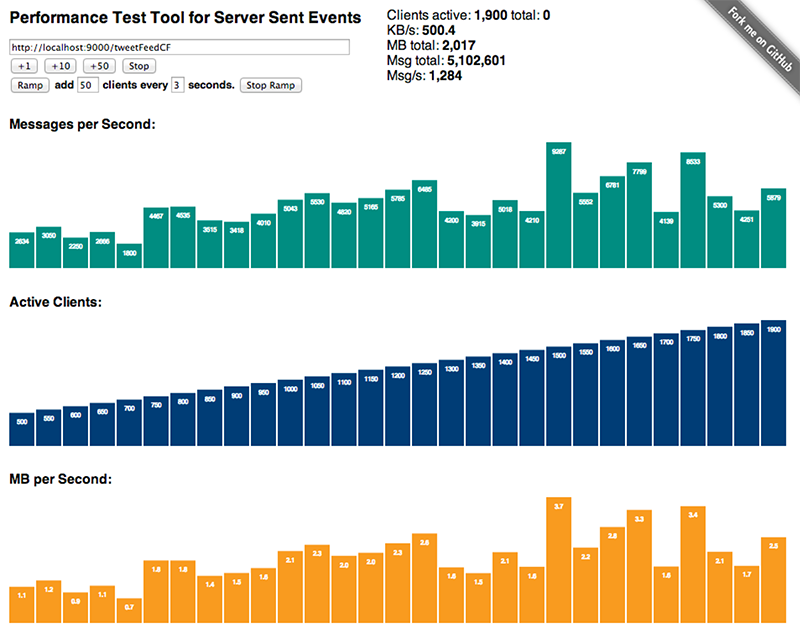
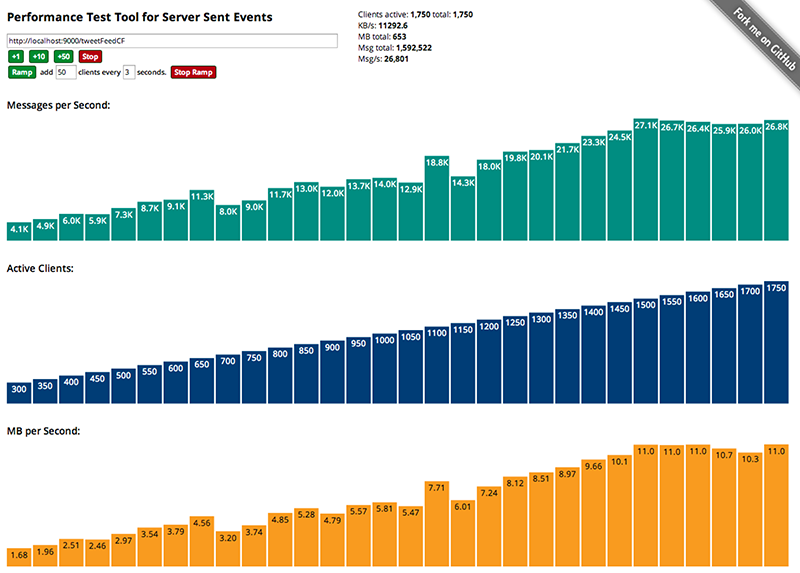
authentication and logging to mongodb added; styling; documentation

diff --git a/public/javascripts/main.js b/public/javascripts/main.js
@@ -23,26 +23,25 @@ $(function () {
     }
 
     function addMetric(item) {
-        if (item.activeClients !== 0) {
-            itemsReceived += 1;
-            item.index = itemsReceived;
-            item.chunksTotal = +item.chunksTotal;
-            item.chunks = +item.chunks;
-            item.msSinceLastReset = +item.msSinceLastReset;
-            item.bytesReceivedTotal = +item.bytesReceivedTotal;
-            item.bytesReceived = +item.bytesReceived;
-            item.activeClients = +item.activeClients;
-            item.clients = +item.clients;
-
-            item.kbSec = (item.bytesReceived / 1024 / item.msSinceLastReset * 1000).toFixed(1);
-            item.msgSec = item.chunks / item.msSinceLastReset * 1000;
-            ssePerf.metrics.push(item);
-            if (ssePerf.metrics.length > 30) { ssePerf.metrics.shift(); }
-            me.clientsChart.reDraw();
-            me.msgChart.reDraw();
-            me.mbSecChart.reDraw();
-            updateUI(item);
+        itemsReceived += 1;
+        item.index = itemsReceived;
+        item.chunksTotal = +item.chunksTotal;
+        item.chunks = +item.chunks;
+        item.msSinceLastReset = +item.msSinceLastReset;
+        item.bytesReceivedTotal = +item.bytesReceivedTotal;
+        item.bytesReceived = +item.bytesReceived;
+        item.activeClients = +item.activeClients;
+        item.clients = +item.clients;
+        item.kbSec = (item.bytesReceived / 1024 / item.msSinceLastReset * 1000).toFixed(1);
+        item.msgSec = item.chunks / item.msSinceLastReset * 1000;
+        ssePerf.metrics.push(item);
+        if (ssePerf.metrics.length > 30) {
+            ssePerf.metrics.shift();
         }
+        me.clientsChart.reDraw();
+        me.msgChart.reDraw();
+        me.mbSecChart.reDraw();
+        updateUI(item);
     }
 
     function handler(msg) {
@@ -52,15 +51,23 @@ $(function () {
     feed.addEventListener('message', handler, false);
 
     function addClients(n) {
-        $.get("/clients/add?n=" + n + "&url=" + $("#urlField").val(), function (response) {
-            console.log(response);
-        });
+        $.get("/clients/add?n=" + n + "&url=" + $("#urlField").val() + "&token=" + ssePerf.token)
+            .done(function (response) {
+                console.log(response);
+            })
+            .fail(function () {
+                $("#urlField").val("SORRY, YOU'RE NOT AUTHORIZED.").prop('disabled', true);
+            });
     }
 
     function removeAll() {
-        $.get("/clients/removeAll", function (response) {
-            console.log(response);
-        });
+        $.get("/clients/removeAll" + "?token=" + ssePerf.token)
+            .done(function (response) {            
+                console.log(response);        
+            })
+            .fail(function () {
+                $("#urlField").val("SORRY, YOU'RE NOT AUTHORIZED.").prop('disabled', true);
+            });
         setTimeout(function () {
             ssePerf.metrics = [];
             itemsReceived = 0;
@@ -83,15 +90,26 @@ $(function () {
 
     /** Chart for showing concurrent clients: value and label are identical */
     function clientsValue(d) { return d.activeClients; }
-    me.clientsChart = ssePerf.BarChart(clientsValue, clientsValue, "#clientsChartSvg", "rgb(2, 62, 115)", 960, 150);
+    me.clientsChart = ssePerf.BarChart(clientsValue, clientsValue, "#clientsChartSvg", "rgb(2, 62, 115)", "white", "black", 960, 140);
 
     /** Chart for showing cumulative Msg / sec: value and label are different */
     function msgValue(d) { return d.msgSec; }
-    function msgLabel(d) { return d.msgSec.toFixed(0); }
-    me.msgChart = ssePerf.BarChart(msgValue, msgLabel, "#msgChartSvg", "rgb(3, 140, 127)", 960, 150);
+    function msgLabel(d) {
+        var label;
+        if (d.msgSec > 1000.0) { label = (d.msgSec / 1000).toFixed(1) + "K"; }
+        else { label = d.msgSec.toFixed(0); }
+        return label
+    }
+    me.msgChart = ssePerf.BarChart(msgValue, msgLabel, "#msgChartSvg", "rgb(3, 140, 127)", "white", "black", 960, 140);
 
     /** Chart for showing cumulative MB / sec: value and label are different */
     function mbSecValue(d) { return d.kbSec / 1024; }
-    function mbSecLabel(d) { return (d.kbSec / 1024).toFixed(1); }
-    me.mbSecChart = ssePerf.BarChart(mbSecValue, mbSecLabel, "#mbSecChartSvg", "rgb(242, 154, 46)", 960, 150);
+    function mbSecLabel(d) { 
+        var label;
+        if (d.kbSec < 1000.0) { label = (d.kbSec / 1024).toFixed(3); }
+        else if (d.kbSec < 10000.0) { label = (d.kbSec / 1024).toFixed(2); }
+        else { label = (d.kbSec / 1024).toFixed(1); }
+        return label 
+    }
+    me.mbSecChart = ssePerf.BarChart(mbSecValue, mbSecLabel, "#mbSecChartSvg", "rgb(242, 154, 46)", "black", "black", 960, 140);
 });

diff --git a/app/views/index.scala.html b/app/views/index.scala.html
@@ -1,19 +1,19 @@
-@(message: String)
+@(token: String)
 
 @main("Performance Test Tool for Server Sent Events") {
 
     <h1>Performance Test Tool for Server Sent Events</h1>
     
     <div>
-        <input id="urlField" value="http://localhost:9000/tweetFeedCF" width="300" /><br />
-        <button id="addOneButton">+1</button>
-        <button id="addTenButton">+10</button>
-        <button id="addFiftyButton">+50</button>
-        <button id="removeAllButton">Stop</button><br />
-        <button id="rampButton">Ramp</button>
+        <input id="urlField" value="http://birdwatch.matthiasnehlsen.com/tweetFeedCF" width="300" /><br />
+        <button class="startButtons" id="addOneButton">+1</button>
+        <button class="startButtons" id="addTenButton">+10</button>
+        <button class="startButtons" id="addFiftyButton">+50</button>
+        <button class="stopButtons" id="removeAllButton">Stop</button><br />
+        <button class="startButtons" id="rampButton">Ramp</button>
         <span class="ramp">add</span> <input id="rampCount" value="50"/><span class="ramp"> clients every </span> 
         <input id="rampInterval" value="3"/><span class="ramp"> seconds.</span>
-        <button id="stopRampButton">Stop Ramp</button>
+        <button class="stopButtons" id="stopRampButton">Stop Ramp</button>
 
 
     </div>
@@ -43,8 +43,36 @@
         <div id="mbSecChartSvg"></div>
     </div>
 
+    <div id="description">
+
+        <br />
+        
+        <h1>sse-perf</h1>
+
+        <p>This is a reactive web application for load testing Server Sent Event streams. It makes use of <a href="http://www.playframework.com">Play Framework 2.1</a> and <a href="http://d3js.org">D3.js</a> for visualizing performance metrics of a number of concurrent connections.</p>
+        
+        <p>Check out <a href="http://matthiasnehlsen.com">my Blog</a> or the <a href="https://github.com/matthiasn/sse-perf">GitHub project</a> for more information on how this is implemented. A blog article about this will be available soon.</p>
+
+        <p>You need a modern browser to view this page, otherwise the content will not be dynamic.</p>
+
+        <a href="https://twitter.com/share" class="twitter-share-button">Tweet</a>
+        <script>!function(d,s,id){var js,fjs=d.getElementsByTagName(s)[0],p=/^http:/.test(d.location)?'http':'https';if(!d.getElementById(id)){js=d.createElement(s);js.id=id;js.src=p+'://platform.twitter.com/widgets.js';fjs.parentNode.insertBefore(js,fjs);}}(document, 'script', 'twitter-wjs');</script>
+
+        <a href="https://twitter.com/_MNehlsen" class="twitter-follow-button" data-show-count="false">Follow &#64;_MNehlsen</a>
+        <script>!function(d,s,id){var js,fjs=d.getElementsByTagName(s)[0],p=/^http:/.test(d.location)?'http':'https';if(!d.getElementById(id)){js=d.createElement(s);js.id=id;js.src=p+'://platform.twitter.com/widgets.js';fjs.parentNode.insertBefore(js,fjs);}}(document, 'script', 'twitter-wjs');</script>
+
+        <p><br/>&#64; Matthias Nehlsen 2013</p>
+
+    </div>
+    
+    
     <script src="@routes.Assets.at("javascripts/barchart.js")" type="text/javascript"></script>
     <script src="@routes.Assets.at("javascripts/main.js")" type="text/javascript"></script>
+
+    <script>
+        ssePerf = ssePerf || {};
+        ssePerf.token = "@{token}";
+    </script>
 
     <a href="https://github.com/matthiasn"><img style="position: absolute; top: 0; right: 0; border: 0;" src="https://s3.amazonaws.com/github/ribbons/forkme_right_gray_6d6d6d.png" alt="Fork me on GitHub"></a>
 }

diff --git a/public/javascripts/barchart.js b/public/javascripts/barchart.js
@@ -2,20 +2,20 @@
 
 var ssePerf = ssePerf || {};
 
-ssePerf.BarChart = function (valueFunction, labelFunction, div, color, w, h) {
+ssePerf.BarChart = function (valueFunction, labelFunction, div, color, textColorInside, textColorOutside, w, h) {
     "use strict";
     var me = {},
         xScale = d3.scale.ordinal().domain(d3.range(ssePerf.metrics.length)).rangeRoundBands([0, w], 0.05),
         yScale = d3.scale.linear().domain([0, d3.max(ssePerf.metrics, valueFunction)]).range([0, h]),
         key = function (d) { return +d.index; },
         svg = d3.select(div).append("svg").attr("width", w).attr("height", h);
-
+    
     me.reDraw = function () {
         var bars = svg.selectAll("rect").data(ssePerf.metrics, key),
             labels = svg.selectAll("text").data(ssePerf.metrics, key);
 
         //Update scale domains
-        xScale.domain(d3.range(ssePerf.metrics.length));
+        xScale.domain(d3.range(ssePerf.metrics.length));    
         yScale.domain([0, d3.max(ssePerf.metrics, valueFunction)]);
 
         //Enter…
@@ -25,7 +25,8 @@ ssePerf.BarChart = function (valueFunction, labelFunction, div, color, w, h) {
             })
             .attr("width", 30)
             .attr("height", function (d) {
-                return yScale(valueFunction(d));
+                d.height = yScale(valueFunction(d));
+                return d.height;
             })
             .attr("fill", color);
 
@@ -36,6 +37,10 @@ ssePerf.BarChart = function (valueFunction, labelFunction, div, color, w, h) {
             })
             .attr("y", function (d) {
                 return h - yScale(valueFunction(d));
+            })
+            .attr("height", function (d) {
+                d.height = yScale(valueFunction(d));
+                return d.height;
             });
 
         //Exit…
@@ -47,13 +52,16 @@ ssePerf.BarChart = function (valueFunction, labelFunction, div, color, w, h) {
             .attr("text-anchor", "middle")
             .attr("x", w)
             .attr("y", function (d) {
-                return h - yScale(valueFunction(d));
+                if (d.height < 16.0) { return h - yScale(valueFunction(d)) - 10; }
+                else return h - yScale(valueFunction(d)) + 12;                
             })
-            .attr("font-family", "sans-serif")
-            .attr("font-size", "8px")
-            .attr("font-weight", "bold")
+            .attr("font-family", "Open Sans")
+            .attr("font-size", "10px")
             .attr("text-anchor", "middle")
-            .attr("fill", "white");
+            .attr("fill", function (d) {
+                if (d.height < 16.0) { return textColorOutside; }
+                else return textColorInside;
+            });
 
         //Update…
         labels.transition().duration(500)
@@ -62,7 +70,12 @@ ssePerf.BarChart = function (valueFunction, labelFunction, div, color, w, h) {
                 return i * 32 + 15;
             })
             .attr("y", function (d) {
-                return h - yScale(valueFunction(d)) + 14;
+                if (d.height < 16.0) { return h - yScale(valueFunction(d)) - 2; }
+                else return h - yScale(valueFunction(d)) + 12;
+            })
+            .attr("fill", function (d) {
+                if (d.height < 16.0) { return textColorOutside; }
+                else return textColorInside;
             });
 
         //Exit…

diff --git a/public/stylesheets/main.css b/public/stylesheets/main.css
@@ -1,9 +1,11 @@
 body {
     margin: 20px;
-    font-family: sans-serif;
+    font-family: 'Open Sans', sans-serif;
+    font-size: 12px;
 }
 h1 {
     font-size: 1.2em;
+    font-weight: 700;
 }
 h2 {
     font-size: 1em;
@@ -13,8 +15,35 @@ h2 {
 #metricsText {
     position: absolute;
     top: 20px;
-    left: 470px;
+    left: 450px;
     width: 300px;
+    font-size: 0.8em;
+}
+input {
+    font-family: 'Open Sans', sans-serif;
+    font-size: 0.7em;
+}
+button {
+    font-family: 'Open Sans', sans-serif;
+    font-size: 0.7em;
+    background-color: #000000; 
+    font-weight: 600;
+    color: #FFFFFF; 
+    padding: 1px 4px 1px 4px;
+    border-radius: 3px;
+    border: 1px solid #124010;
+    text-align: center;
+}
+
+button:active {
+    padding: 3px 6px 3px 6px;
+}
+
+.startButtons {
+    background-color: #008832;   
+}
+.stopButtons {
+    background-color: #AA0012;
 }
 #urlField {
     width: 400px;
@@ -23,7 +52,7 @@ h2 {
     font-weight: bold;
 }
 .barchart {
-    padding-top: 15px;
+    padding-top: 10px;
 }
 #rampCount {
     width: 20px;
@@ -32,6 +61,11 @@ h2 {
     width: 10px;
 }
 .ramp {
-    font-size: 0.8em;
+    font-size: 0.7em;
+    font-weight: 600;
+}
+a {
+    text-decoration: none;
     font-weight: bold;
+    color: steelblue;
 }

diff --git a/app/views/main.scala.html b/app/views/main.scala.html
@@ -7,6 +7,7 @@
         <title>@title</title>
         <link rel="stylesheet" media="screen" href="@routes.Assets.at("stylesheets/main.css")">
         <link rel="shortcut icon" type="image/png" href="@routes.Assets.at("images/favicon.png")">
+        <link href="http://fonts.googleapis.com/css?family=Open+Sans:400,600,300,700" rel="stylesheet" type="text/css">
         <script src="@routes.Assets.at("javascripts/vendor/jquery-1.9.0.min.js")" type="text/javascript"></script>
         <script src="@routes.Assets.at("javascripts/vendor/d3.v3.min.js")" type="text/javascript"></script>
     </head>

diff --git a/README.md b/README.md
@@ -6,6 +6,8 @@ Internally **[Akka](http://akka.io)** actors are used to handle the connections 
 
 ![Screenshot](./docs/screenshot.png)
 
+You can **[see this application in action](http:birdwatch.matthiasnehlsen.com:9001)**. I am using it to put a constant load of a few hundred concurrent client connections on my **[BirdWatch](http:birdwatch.matthiasnehlsen.com)** application.
+
 Please **[Check out my Blog](http://matthiasnehlsen.com)** for additional information, there will be an article about this project in the next couple of days.
  
 ###Setup
